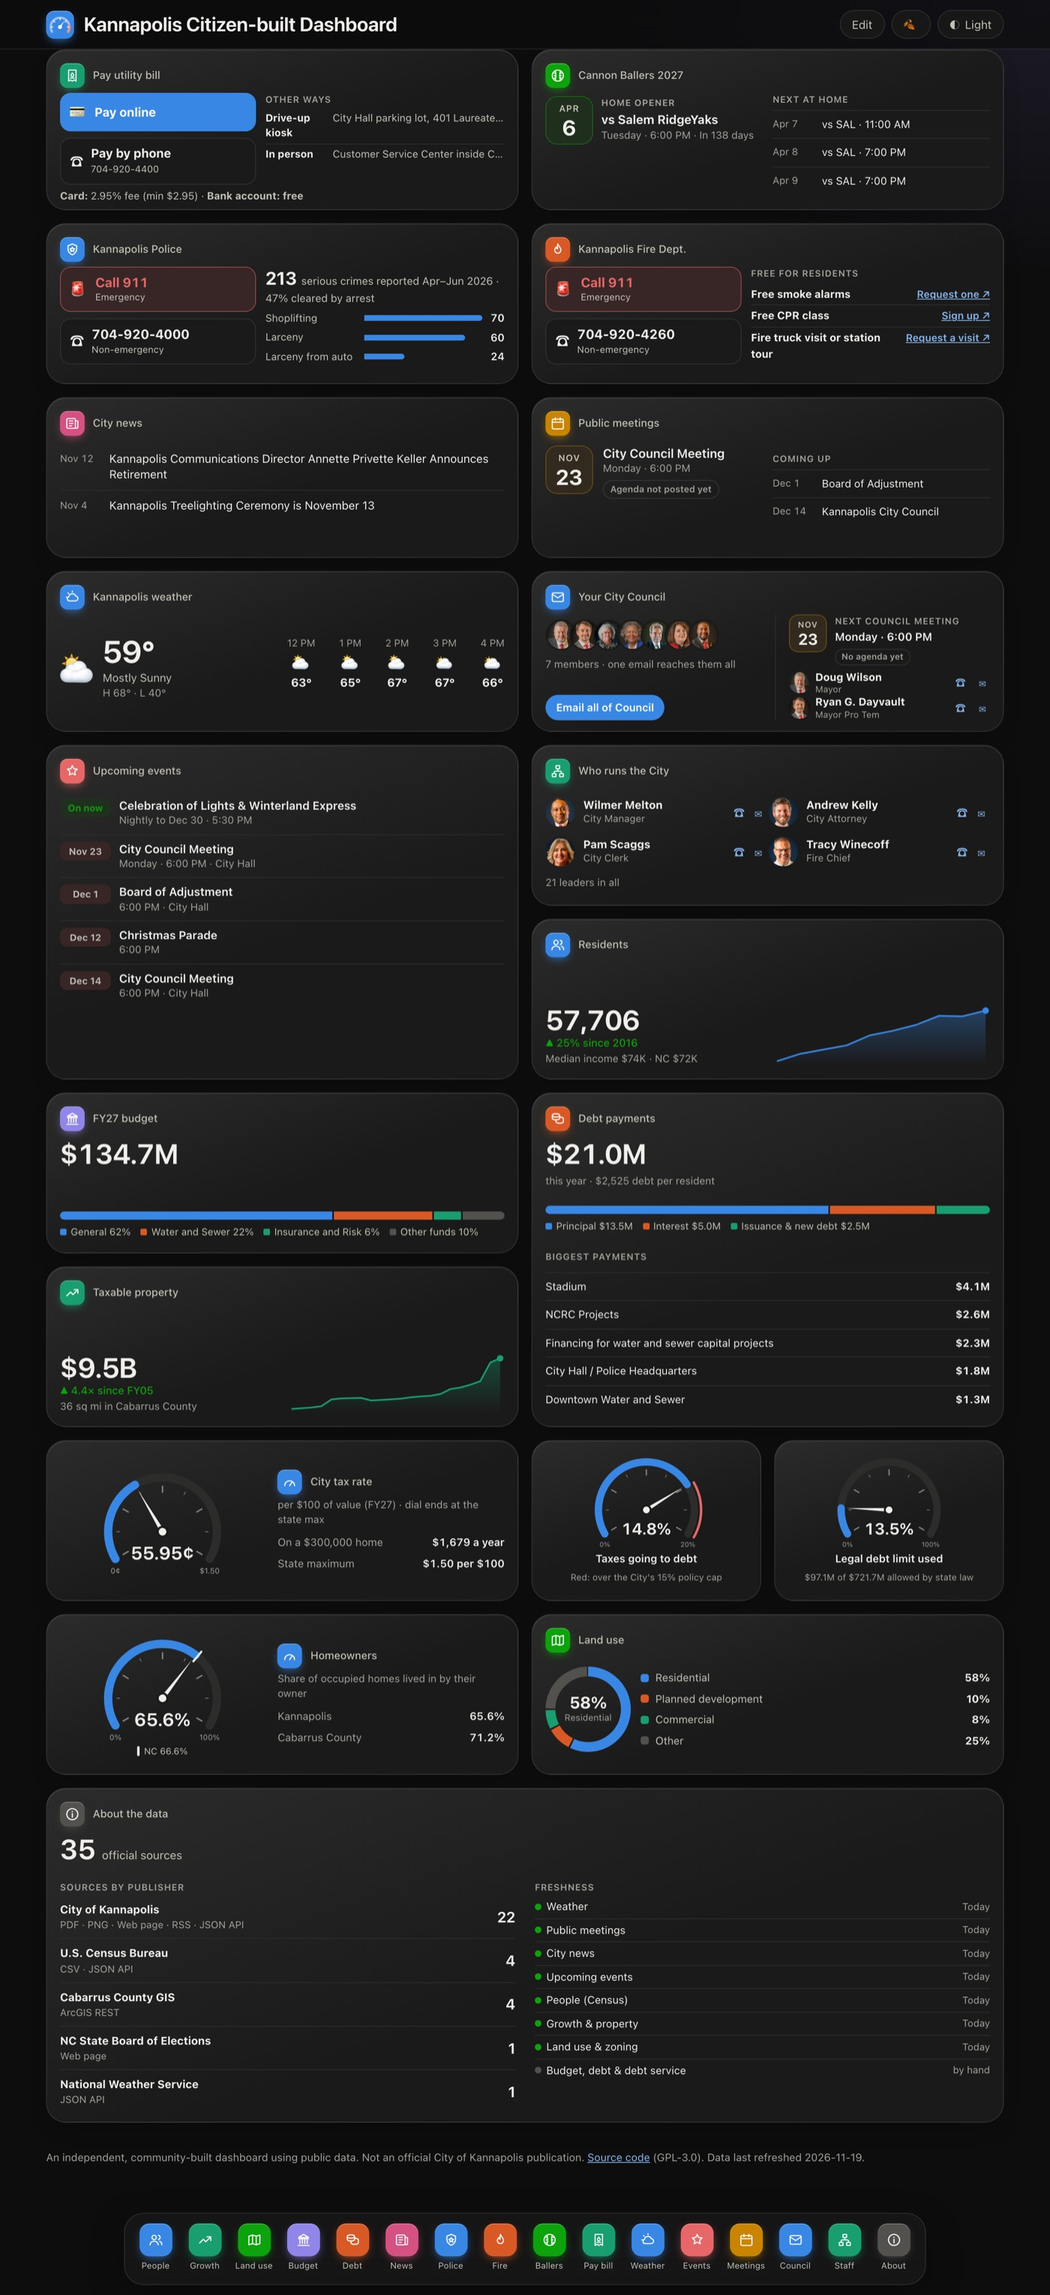
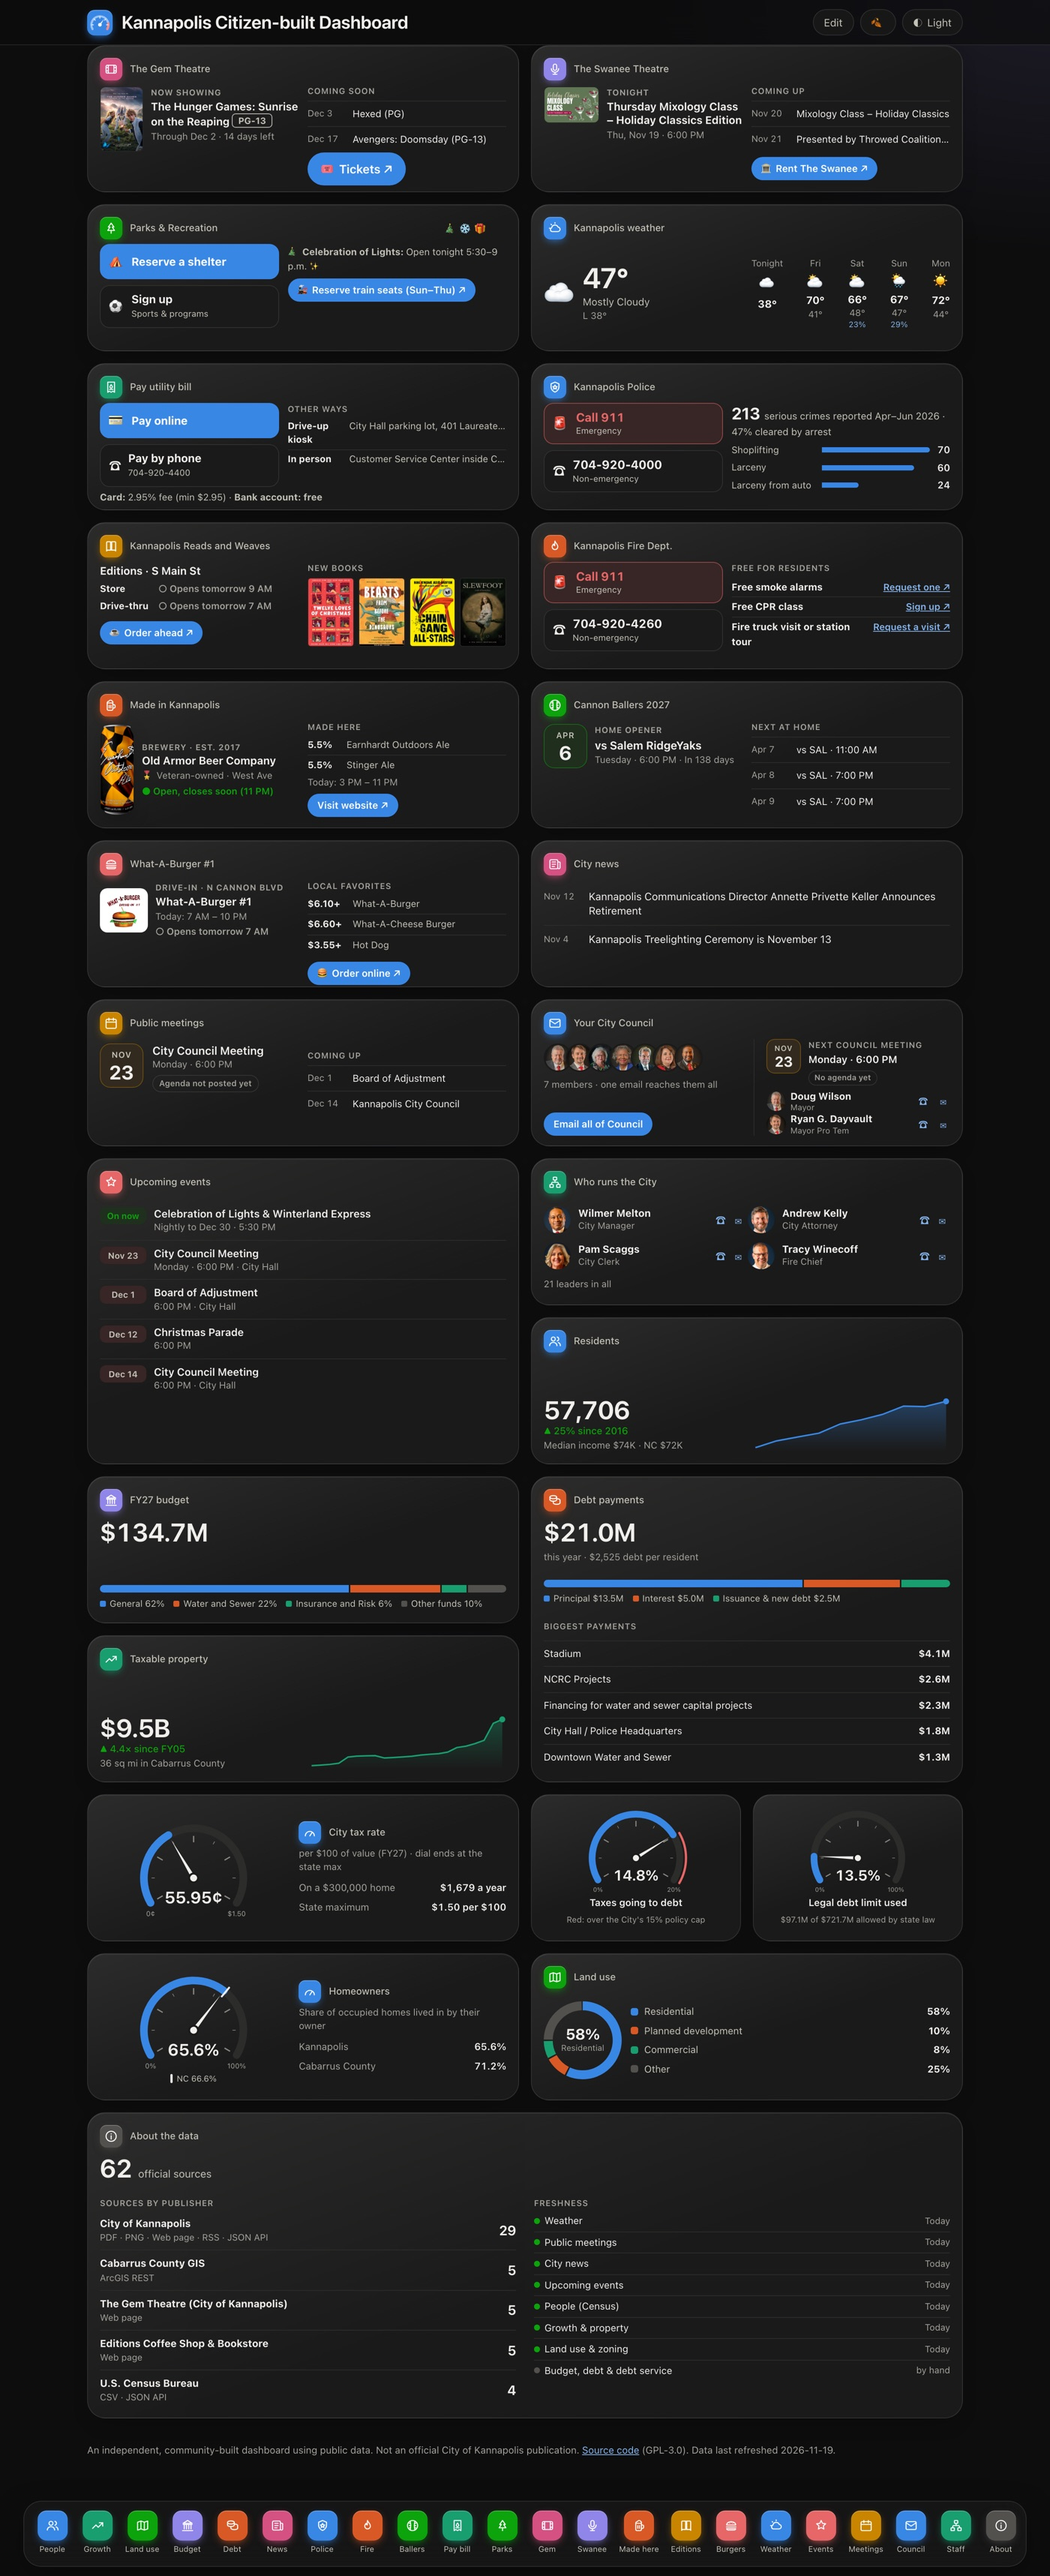
Refresh README screenshot (new widgets, holiday layout)

diff --git a/README.md b/README.md
@@ -6,7 +6,7 @@ An open-data dashboard for **Kannapolis, North Carolina**, built by a resident f
 
 It's **one self-contained HTML file** built by a small Python script. No Node, no venv, nothing to install.
 
-[![The dashboard's home screen: widget tiles for paying a utility bill, the Cannon Ballers schedule, police and fire (with 911 buttons), news, meetings, weather, City Council, events, City staff, residents, budget, debt, gauges and land use, with a dock of widget icons along the bottom](docs/dashboard.jpg)](https://bradspry.github.io/kannapolis-dashboard/)
+[![The dashboard's home screen: widget tiles for the Gem and Swanee theatres, Parks & Recreation (Celebration of Lights and Winterland Express train reservations), a 5-day weather forecast, paying a utility bill, police and fire (with 911 buttons), Editions bookstore's new books, Made in Kannapolis (Old Armor Beer), What-A-Burger, the Cannon Ballers, news, meetings, City Council, events, City staff, residents, budget, debt, gauges, land use and data sources, with a dock of widget icons along the bottom](docs/dashboard.jpg)](https://bradspry.github.io/kannapolis-dashboard/)
 
 ## Quick start
 
